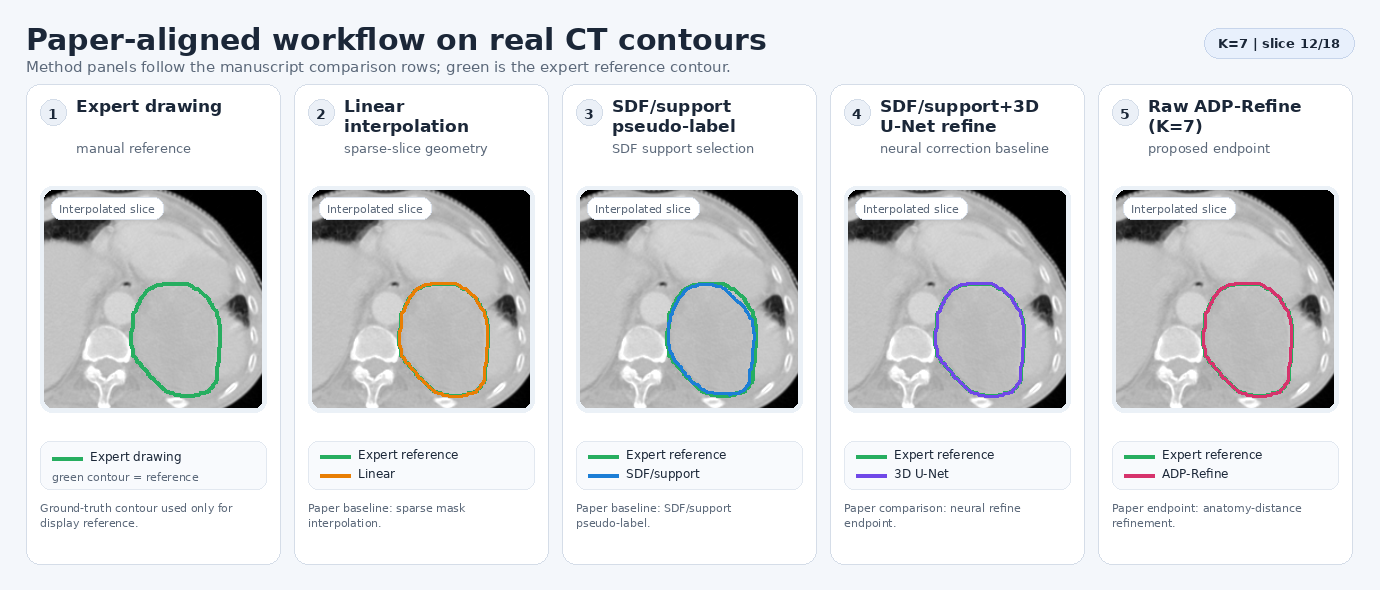
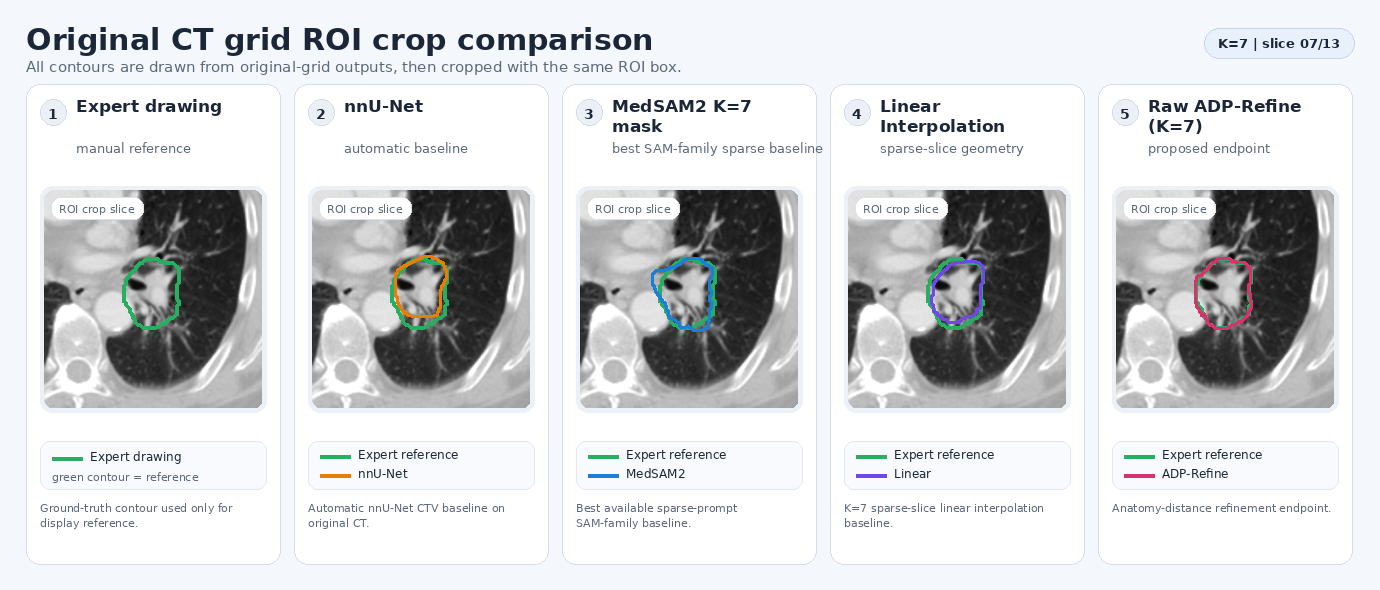
Regenerate workflow visuals from original-grid ROI crops

diff --git a/site/index.html b/site/index.html
@@ -550,15 +550,15 @@
     <section id="demo">
       <div class="demo-wrap">
         <div class="demo-media">
-          <img src="assets/real_ct_workflow_demo.gif" alt="Dynamic paper-aligned sparse-prompt workflow on de-identified real CT and expert drawing">
+          <img src="assets/real_ct_workflow_demo.gif" alt="Dynamic original-grid ROI crop comparison on de-identified real CT and expert drawing">
         </div>
         <div>
           <div class="section-head">
             <h2>Dynamic Real CT Workflow Display</h2>
             <p>
-              The animation follows the manuscript method order on rendered 2D
-              CT crops: expert drawing, Linear interpolation, SDF/support
-              pseudo-label, SDF/support+3D U-Net refine, and Raw ADP-Refine
+              The animation is rendered from original CT-grid outputs after
+              applying the same ROI crop. It compares expert drawing, nnU-Net,
+              MedSAM2 K=7 mask, Linear Interpolation, and Raw ADP-Refine
               (K=7). It contains no case ID, scan date, private path, or
               volumetric medical file.
             </p>
@@ -566,7 +566,9 @@
           <div class="tag-row">
             <span class="tag">Real CT crop</span>
             <span class="tag">Expert drawing</span>
-            <span class="tag">Paper method labels</span>
+            <span class="tag">Original-grid crop</span>
+            <span class="tag">nnU-Net</span>
+            <span class="tag">MedSAM2</span>
             <span class="tag">ADP-Refine</span>
             <span class="tag">No identifiers</span>
           </div>
@@ -599,17 +601,17 @@
           </div>
         </div>
         <div class="panel result-panel">
-          <img src="assets/real_ct_multi_method_comparison.png" alt="Static real CT multi-method segmentation comparison with paper-aligned labels">
+          <img src="assets/real_ct_multi_method_comparison.png" alt="Static real CT multi-method segmentation comparison from an original-grid ROI crop">
           <div class="result-body">
             <h3>Static Multi-Method Comparison</h3>
             <p>
-              The static panel compares expert drawing, Linear interpolation,
-              SDF/support pseudo-label, SDF/support+3D U-Net refine, and Raw
-              ADP-Refine (K=7) on the same CT slice positions.
+              The static panel compares expert drawing, nnU-Net, MedSAM2 K=7
+              mask, Linear Interpolation, and Raw ADP-Refine (K=7) on the same
+              original CT-grid ROI crop.
             </p>
             <div class="tag-row">
               <span class="tag">Real CT crops</span>
-              <span class="tag">Paper method labels</span>
+              <span class="tag">Original-grid crop</span>
               <span class="tag">No source volumes</span>
             </div>
           </div>
@@ -619,13 +621,15 @@
           <div class="result-body">
             <h3>Dynamic Workflow Display</h3>
             <p>
-              The workflow animation uses the same paper-aligned method order
-              as the static comparison and keeps each contour legend inside its
+              The workflow animation uses the same original-grid ROI crop as
+              the static comparison and keeps each contour legend inside its
               own panel.
             </p>
             <div class="tag-row">
               <span class="tag">CT context</span>
               <span class="tag">Expert contour</span>
+              <span class="tag">nnU-Net</span>
+              <span class="tag">MedSAM2</span>
               <span class="tag">ADP-Refine</span>
             </div>
           </div>

diff --git a/README.md b/README.md
@@ -19,12 +19,12 @@ identifiers, and study-level dataset details are not included.
 
 <p align="center">
   <strong>Static multi-method comparison</strong><br>
-  <img src="site/assets/real_ct_multi_method_comparison.png" width="760" alt="Static de-identified real CT comparison with paper-aligned method labels">
+  <img src="site/assets/real_ct_multi_method_comparison.png" width="760" alt="Static de-identified real CT comparison from an original-grid ROI crop">
 </p>
 
 <p align="center">
   <strong>Dynamic workflow display</strong><br>
-  <img src="site/assets/real_ct_workflow_demo.gif" width="760" alt="Dynamic paper-aligned workflow display on de-identified real CT and expert drawing">
+  <img src="site/assets/real_ct_workflow_demo.gif" width="760" alt="Dynamic original-grid ROI crop display on de-identified real CT and expert drawing">
 </p>
 
 The repository homepage shows the three public result views directly. These
@@ -32,9 +32,9 @@ assets are rendered 2D CT crops with contour overlays from one de-identified
 case. Original DICOM/NIfTI volumes, case identifiers, acquisition dates, local
 paths, and scan metadata are not included.
 
-The workflow and multi-method comparison use the manuscript method order:
-Expert drawing, Linear interpolation, SDF/support pseudo-label,
-SDF/support+3D U-Net refine, and Raw ADP-Refine (K=7).
+The workflow and multi-method comparison are rendered from original CT-grid
+outputs after applying the same ROI crop. They show Expert drawing, nnU-Net,
+MedSAM2 K=7 mask, Linear Interpolation, and Raw ADP-Refine (K=7).
 
 - Single-case complete slice display:
   [`site/real-results/single-case-complete-slices.html`](site/real-results/single-case-complete-slices.html)
@@ -80,11 +80,11 @@ metadata.
   axial slice gallery rendered from de-identified real CT crops and contours.
 - `site/assets/real_ct_single_case_slices.gif`: dynamic single-case CT slice
   display with expert drawing and sparse-prompt refinement contours.
-- `site/assets/real_ct_multi_method_comparison.png`: static paper-aligned
-  comparison of expert drawing, Linear interpolation, SDF/support pseudo-label,
-  SDF/support+3D U-Net refine, and Raw ADP-Refine (K=7).
+- `site/assets/real_ct_multi_method_comparison.png`: static original-grid ROI
+  comparison of expert drawing, nnU-Net, MedSAM2 K=7 mask, Linear
+  Interpolation, and Raw ADP-Refine (K=7).
 - `site/assets/real_ct_workflow_demo.gif`: dynamic workflow display on real CT
-  crops using the same paper-aligned method labels.
+  crops using the same original-grid ROI crop and method labels.
 
 ## Environment
 